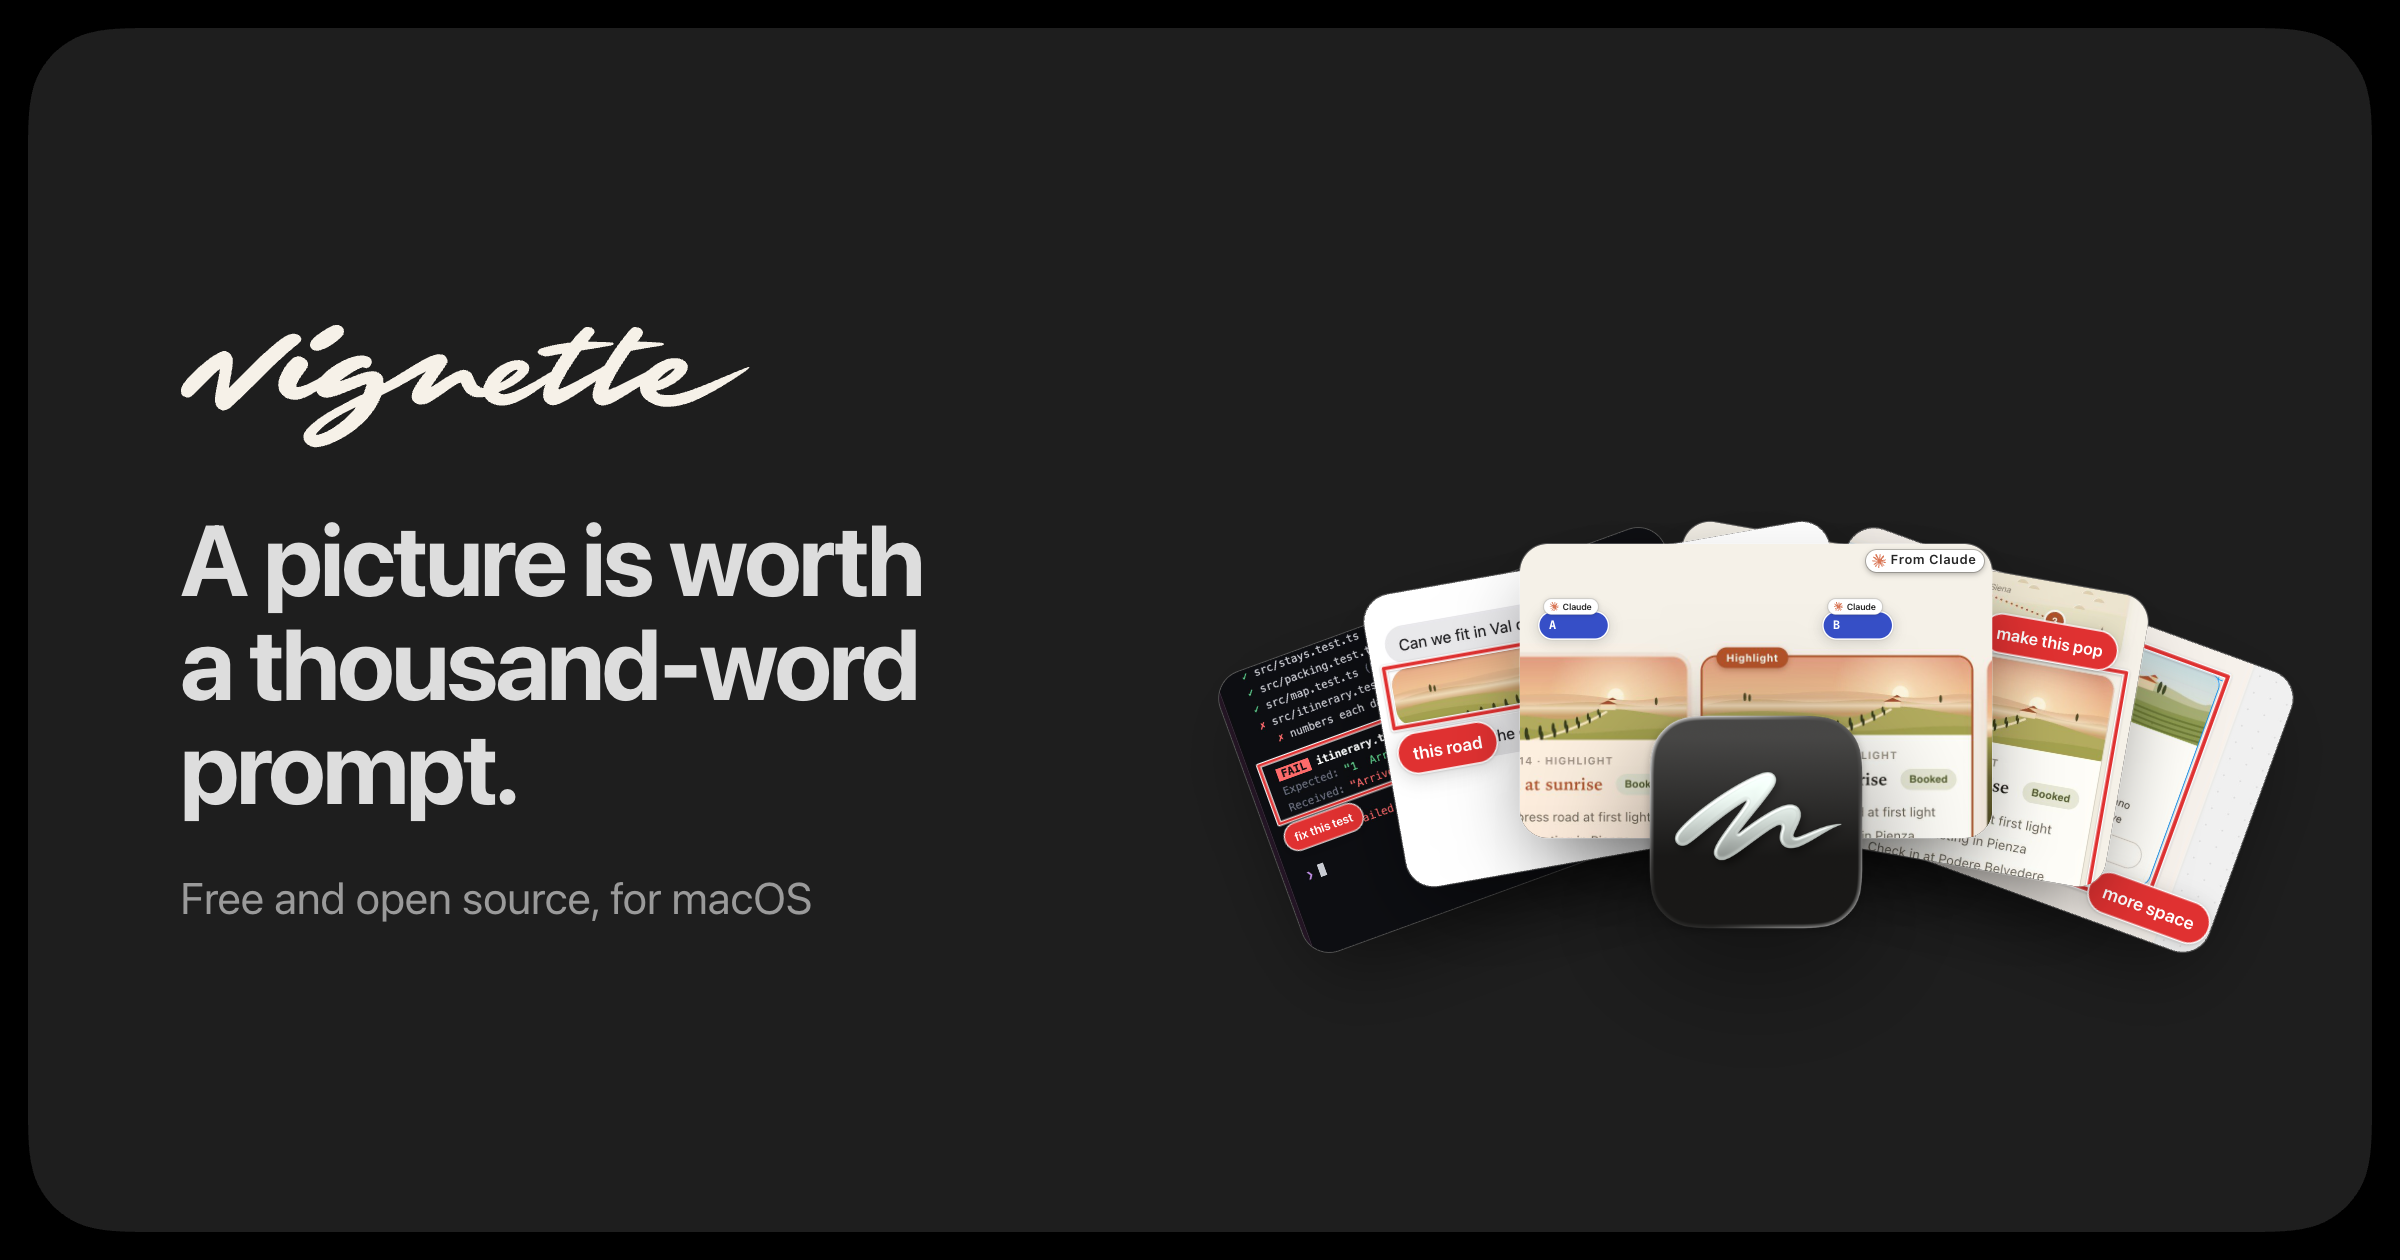
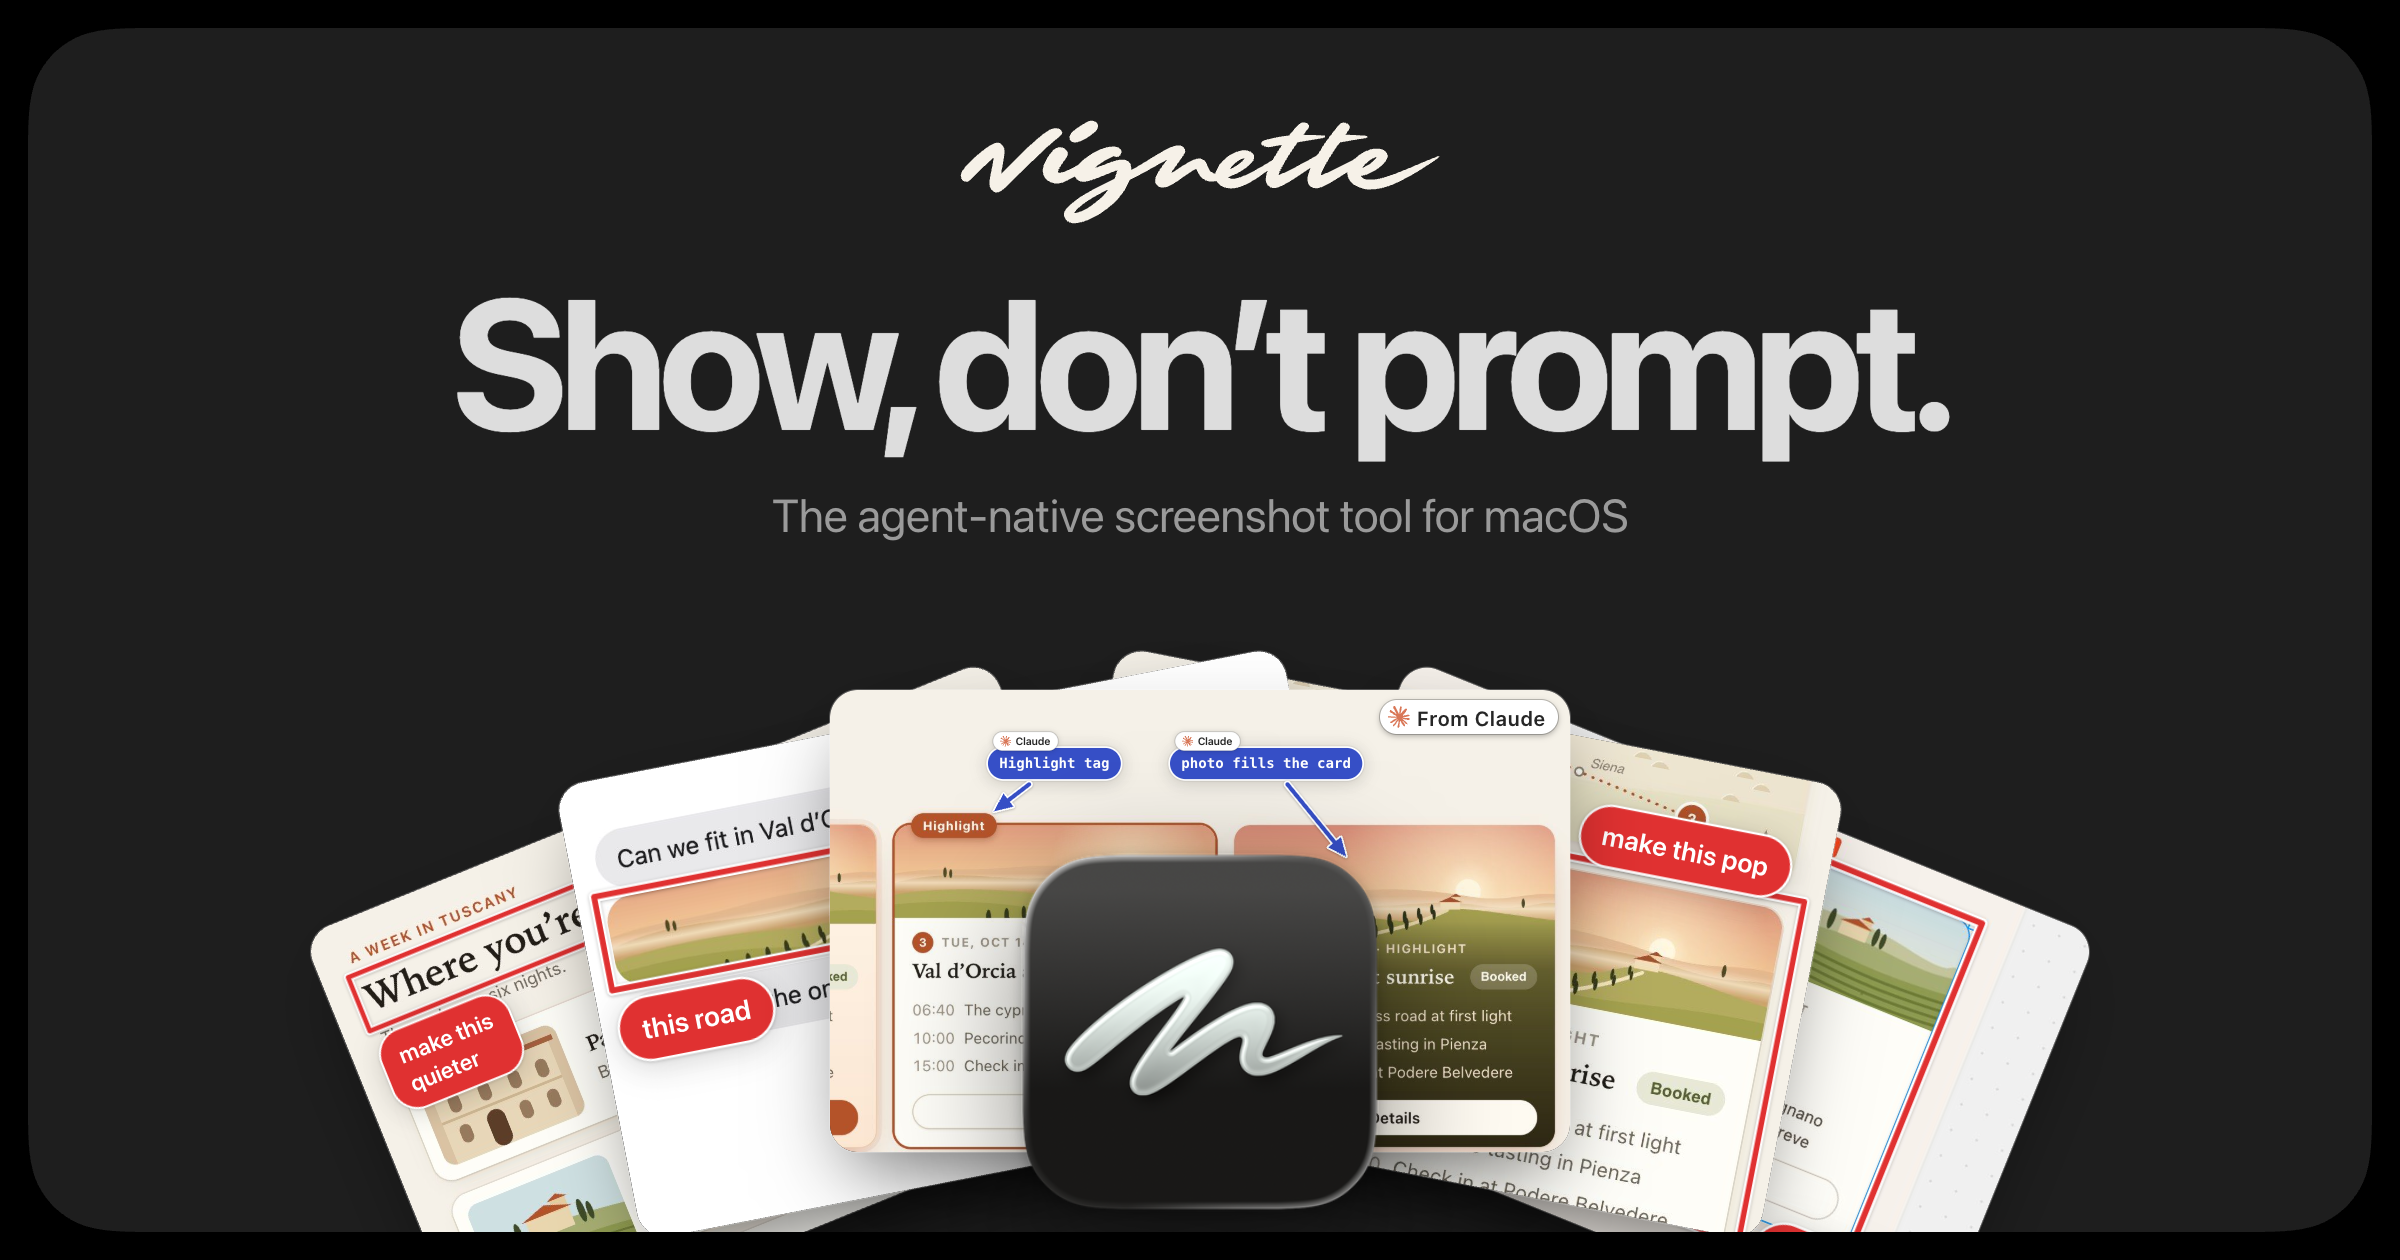
The landing page leads with "Show, don't prompt." and a new share image
The headline is now "Show, don't prompt.", and the tagline "The
agent-native screenshot tool for macOS" opens the hero's paragraph,
names the page in tabs and link previews, and sits under the headline
in the share image. The share image is laid out like the page's closer:
the wordmark, headline and tagline centred above a fan of cards that
rises from the bottom edge.

Claude's answer in the demos no longer labels the versions A, B and C:
it notes what sets each one apart, with an arrow to it, and asks which
one you like. The fan's terminal card is replaced by the Stays page with
"make this quieter", and the demo's terminal note is now "number the
days like this".

Claude-Session: https://claude.ai/code/session_01SSuP3TACM5L2hV1KzNi7zo

diff --git a/site/index.html b/site/index.html
@@ -4,15 +4,15 @@
 <meta charset="utf-8">
 <meta name="viewport" content="width=device-width, initial-scale=1">
 <meta name="color-scheme" content="light dark">
-<title>Vignette</title>
+<title>Vignette: the agent-native screenshot tool</title>
 <meta name="description" content="Vignette keeps your recent screenshots at the edge of your Mac’s screen, ready to draw on and send to Claude Code or Codex. Your agent can answer with a drawing of its own. Free and open source.">
 <meta property="og:type" content="website">
-<meta property="og:title" content="Vignette">
+<meta property="og:title" content="Vignette: the agent-native screenshot tool">
 <meta property="og:description" content="Vignette keeps your recent screenshots at the edge of your Mac’s screen, ready to draw on and send to Claude Code or Codex. Your agent can answer with a drawing of its own. Free and open source.">
-<meta property="og:image" content="https://vignette.pete.design/og.png">
+<meta property="og:image" content="https://vignette.pete.design/og.png?v=2026-10-03">
 <meta property="og:image:width" content="2400">
 <meta property="og:image:height" content="1260">
-<meta property="og:image:alt" content="The Vignette wordmark and the headline &quot;A picture is worth a thousand-word prompt.&quot; beside a fan of screenshots with red notes drawn on them, one from Claude marked A and B, in front of the app icon.">
+<meta property="og:image:alt" content="The Vignette wordmark, the headline &quot;Show, don’t prompt.&quot; and the line &quot;The agent-native screenshot tool for macOS&quot;, beside a fan of screenshots with red notes drawn on them, one from Claude with its own notes in blue, in front of the app icon.">
 <meta property="og:url" content="https://vignette.pete.design/">
 <link rel="canonical" href="https://vignette.pete.design/">
 <meta name="twitter:card" content="summary_large_image">
@@ -39,9 +39,9 @@
 <main>
 
 <section class="hero wrap">
-  <h1>A picture is worth a thousand‑word prompt.</h1>
-  <p class="lede">Vignette keeps your recent screenshots at the edge of your screen, ready to draw on and
-  send to Claude Code or Codex. Your agent can answer with a drawing of its own.</p>
+  <h1>Show, don’t prompt.</h1>
+  <p class="lede">Vignette is an agent-native screenshot tool for macOS. It keeps your recent screenshots
+  at the edge of your screen, ready to draw on and send to Claude Code or Codex. Your agent can answer with a drawing of its own.</p>
   <p class="get">
     <a class="download" href="https://github.com/petekp/vignette/releases/latest"><img src="demo/app-icon.png" alt="" width="64" height="64">Download Vignette</a>
     <span>Free and open source, for macOS 14 or later</span>
@@ -132,7 +132,7 @@
     <img class="fan-icon" src="demo/app-icon-large.png" alt="" width="384" height="384">
   </div>
   <img class="closer-mark" src="logotype.svg" alt="Vignette" width="1508" height="328">
-  <p class="closer-line" id="closer-title">A picture is worth a thousand‑word prompt.</p>
+  <p class="closer-line" id="closer-title">Show, don’t prompt.</p>
   <p class="get">
     <a class="download" href="https://github.com/petekp/vignette/releases/latest"><img src="demo/app-icon.png" alt="" width="64" height="64">Download Vignette</a>
   </p>

diff --git a/site/og/index.html b/site/og/index.html
@@ -1,6 +1,7 @@
 <!doctype html>
-<!-- The source of site/og.png, the link preview. It is the page's closer: the fan of cards from the
-     demos, drawn by the page's own code, and the headline, on the dark sheet. To render it, serve
+<!-- The source of site/og.png, the link preview. It is the page's closer: the wordmark, the headline
+     and the tagline above the fan of cards from the demos, drawn by the page's own code, on the dark
+     sheet. To render it, serve
      site/ (python3 -m http.server 4719 --directory site), open http://127.0.0.1:4719/og/ in dark mode
      at 1200 by 630 points and 2x, and capture the page. -->
 <html lang="en" data-theme="dark">
@@ -11,30 +12,15 @@
 <style>
   html, body { margin: 0; padding: 0; background: #000; }
   .og { width: 1200px; height: 630px; padding: 14px; box-sizing: border-box; }
-  .og .sheet {
-    --r: 44px;
-    --sheet-r: 44px;
-    min-height: 0;
-    height: 100%;
-    box-sizing: border-box;
-    display: grid;
-    grid-template-columns: 500px 1fr;
-    align-items: center;
-    padding: 0 0 0 76px;
-  }
-  .words img { display: block; height: 62px; width: auto; }
-  .words h1 {
-    margin: 30px 0 0;
-    font-size: 50px;
-    font-weight: 700;
-    letter-spacing: -0.035em;
-    line-height: 1.04;
-    text-wrap: balance;
-  }
-  .words p { margin: 22px 0 0; color: var(--ink-2); font-size: 22px; }
-  .og .fan { height: 420px; margin: -96px 0 0 -10px; --spread: 10deg; }
-  .og .fan-card { width: 236px; bottom: 58px; }
-  .og .fan-icon { width: 132px; }
+  .og .sheet { --r: 44px; --sheet-r: 44px; position: relative; min-height: 0; height: 100%; box-sizing: border-box; text-align: center; }
+  .words { position: absolute; left: 0; right: 0; top: 46px; }
+  .words img { display: block; height: 52px; width: auto; margin: 0 auto; }
+  .words h1 { margin: 22px 0 0; font-size: 92px; font-weight: 700; letter-spacing: -0.045em; line-height: 1; }
+  .words p { margin: 14px 0 0; color: var(--ink-2); font-size: 23px; letter-spacing: -0.01em; }
+  /* The fan rises from the sheet's bottom edge, which crops it, as on the page's closer. */
+  .og .fan { position: absolute; left: 50%; bottom: -190px; width: 1100px; height: 620px; margin-left: -550px; --spread: 11deg; }
+  .og .fan-card { width: 370px; bottom: 230px; }
+  .og .fan-icon { width: 220px; bottom: 180px; }
 </style>
 </head>
 <body>
@@ -42,8 +28,8 @@
   <div class="sheet">
     <div class="words">
       <img src="../logotype.svg" alt="Vignette">
-      <h1>A picture is worth a thousand‑word prompt.</h1>
-      <p>Free and open source, for macOS</p>
+      <h1>Show, don’t prompt.</h1>
+      <p>The agent-native screenshot tool for macOS</p>
     </div>
     <div class="fan" id="fan">
       <img class="fan-icon" src="../demo/app-icon-large.png" alt="">

diff --git a/site/demo/cards.js b/site/demo/cards.js
@@ -22,19 +22,23 @@ export const PERSON_MARKS = [
   { type: "arrow", who: "person", x1: 1322, y1: 332, x2: 852, y2: 668 },
   { type: "note", who: "person", x: 1222, y: 252, text: "number the days" },
 ];
+// Claude's answer: a note on what sets each version apart, an arrow to it, and a question.
 export const CLAUDE_MARKS = [
-  { type: "note", who: "agent", x: 300, y: 200, text: "A" },
-  { type: "note", who: "agent", x: 878, y: 200, text: "B" },
-  { type: "note", who: "agent", x: 1456, y: 200, text: "C" },
-  { type: "note", who: "agent", x: 820, y: 890, text: "Which one?" },
+  { type: "note", who: "agent", x: 230, y: 160, text: "warm tint" },
+  { type: "arrow", who: "agent", x1: 315, y1: 222, x2: 300, y2: 302 },
+  { type: "note", who: "agent", x: 790, y: 160, text: "Highlight tag" },
+  { type: "arrow", who: "agent", x1: 860, y1: 222, x2: 800, y2: 268 },
+  { type: "note", who: "agent", x: 1100, y: 160, text: "photo fills the card" },
+  { type: "arrow", who: "agent", x1: 1300, y1: 222, x2: 1400, y2: 345 },
+  { type: "note", who: "agent", x: 722, y: 884, text: "Which one do you like?" },
 ];
 
 // The closer's fan: five cards from the demos, drawn with the same marks, behind the app icon.
 // Each card is a region screenshot: `view` is the part of the image it shows, so its marks read.
 const FAN = [
-  { image: IMAGES.terminal, view: { x: 30, y: 300, w: 1300, h: 812 }, marks: [{ type: "rect", who: "person", x: 70, y: 560, w: 1150, h: 170 }, { type: "note", who: "person", x: 70, y: 742, text: "fix this test" }] },
+  { image: IMAGES.stays, view: { x: 0, y: 110, w: 1100, h: 688 }, marks: [{ type: "rect", who: "person", x: 40, y: 192, w: 588, h: 86 }, { type: "note", who: "person", x: 40, y: 292, text: "make this\nquieter" }] },
   { image: IMAGES.chat, view: { x: 0, y: 250, w: 900, h: 562 }, marks: [{ type: "rect", who: "person", x: 22, y: 390, w: 478, h: 116 }, { type: "note", who: "person", x: 22, y: 522, text: "this road" }] },
-  { image: IMAGES.variants, view: { x: 260, y: 60, w: 960, h: 600 }, marks: CLAUDE_MARKS, from: "Claude" },
+  { image: IMAGES.variants, view: { x: 520, y: 60, w: 1260, h: 788 }, marks: CLAUDE_MARKS, from: "Claude" },
   { image: IMAGES.itin, view: { x: 860, y: 300, w: 940, h: 588 }, marks: [{ type: "rect", who: "person", x: 1196, y: 452, w: 579, h: 580 }, { type: "note", who: "person", x: 1480, y: 380, text: "make this pop" }] },
   { image: IMAGES.frame, view: { x: 520, y: 130, w: 880, h: 550 }, marks: [{ type: "rect", who: "person", x: 812, y: 168, w: 456, h: 462 }, { type: "note", who: "person", x: 1160, y: 586, text: "more space" }] },
 ];

diff --git a/site/demo/page.js b/site/demo/page.js
@@ -126,7 +126,7 @@ browser(one, STAYS, IMAGES.stays, "postcard.app/stays");
 const ONE_CARDS = [
   { image: IMAGES.chat, demo: { box: { x: 22, y: 390, w: 478, h: 116 }, words: "this road" } },
   { image: IMAGES.frame, demo: { box: { x: 812, y: 168, w: 456, h: 462 }, words: "use this spacing" } },
-  { image: IMAGES.terminal, demo: { box: { x: 70, y: 560, w: 1150, h: 170 }, words: "fix this test" } },
+  { image: IMAGES.terminal, demo: { box: { x: 96, y: 628, w: 630, h: 50 }, words: "number the days like this" } },
   { image: IMAGES.packing, demo: { box: { x: 1200, y: 330, w: 575, h: 440 }, words: "add sunscreen" } },
   { image: IMAGES.itin, demo: { box: { x: 1196, y: 452, w: 579, h: 580 }, words: "make this pop" } },
 ];
@@ -361,7 +361,7 @@ async function sendIt(message = "") {
     site.show(IMAGES.itinR1);
     await wait(1.1);
     two.look(TERM_VIEW);
-    await say([['<span class="t-dim">  ⎿ Sent you a screenshot, marked A, B and C</span>', 0.6]]);
+    await say([['<span class="t-dim">  ⎿ Sent you a screenshot of all three</span>', 0.6]]);
     two.look(null);
     await wait(0.4);
     const claude = await two.insert({ image: IMAGES.variants, marks: CLAUDE_MARKS, from: "Claude" });

diff --git a/docs/landing-page-2026-10-02.md b/docs/landing-page-2026-10-02.md
@@ -66,13 +66,13 @@ gutter between them, so the two curves are concentric, and never below 28 px.
 
 ## Content in the demos
 
-Act one's stack holds a varied, staged history: Postcard pages, a terminal with a failing test, a
+Act one's stack holds a varied, staged history: Postcard pages, a terminal, a
 design frame and a chat with Maya. Act two continues the trailer's Postcard story: the highlight
-day boxed with "make this pop, options?", and Claude's answer marked A, B and C.
+day boxed with "make this pop, options?", and Claude's answer: three versions of the day, each with a note on what sets it apart.
 
 ## Headline
 
-"A picture is worth a thousand-word prompt."
+"Show, don't prompt."
 
 ## Design tokens
 
